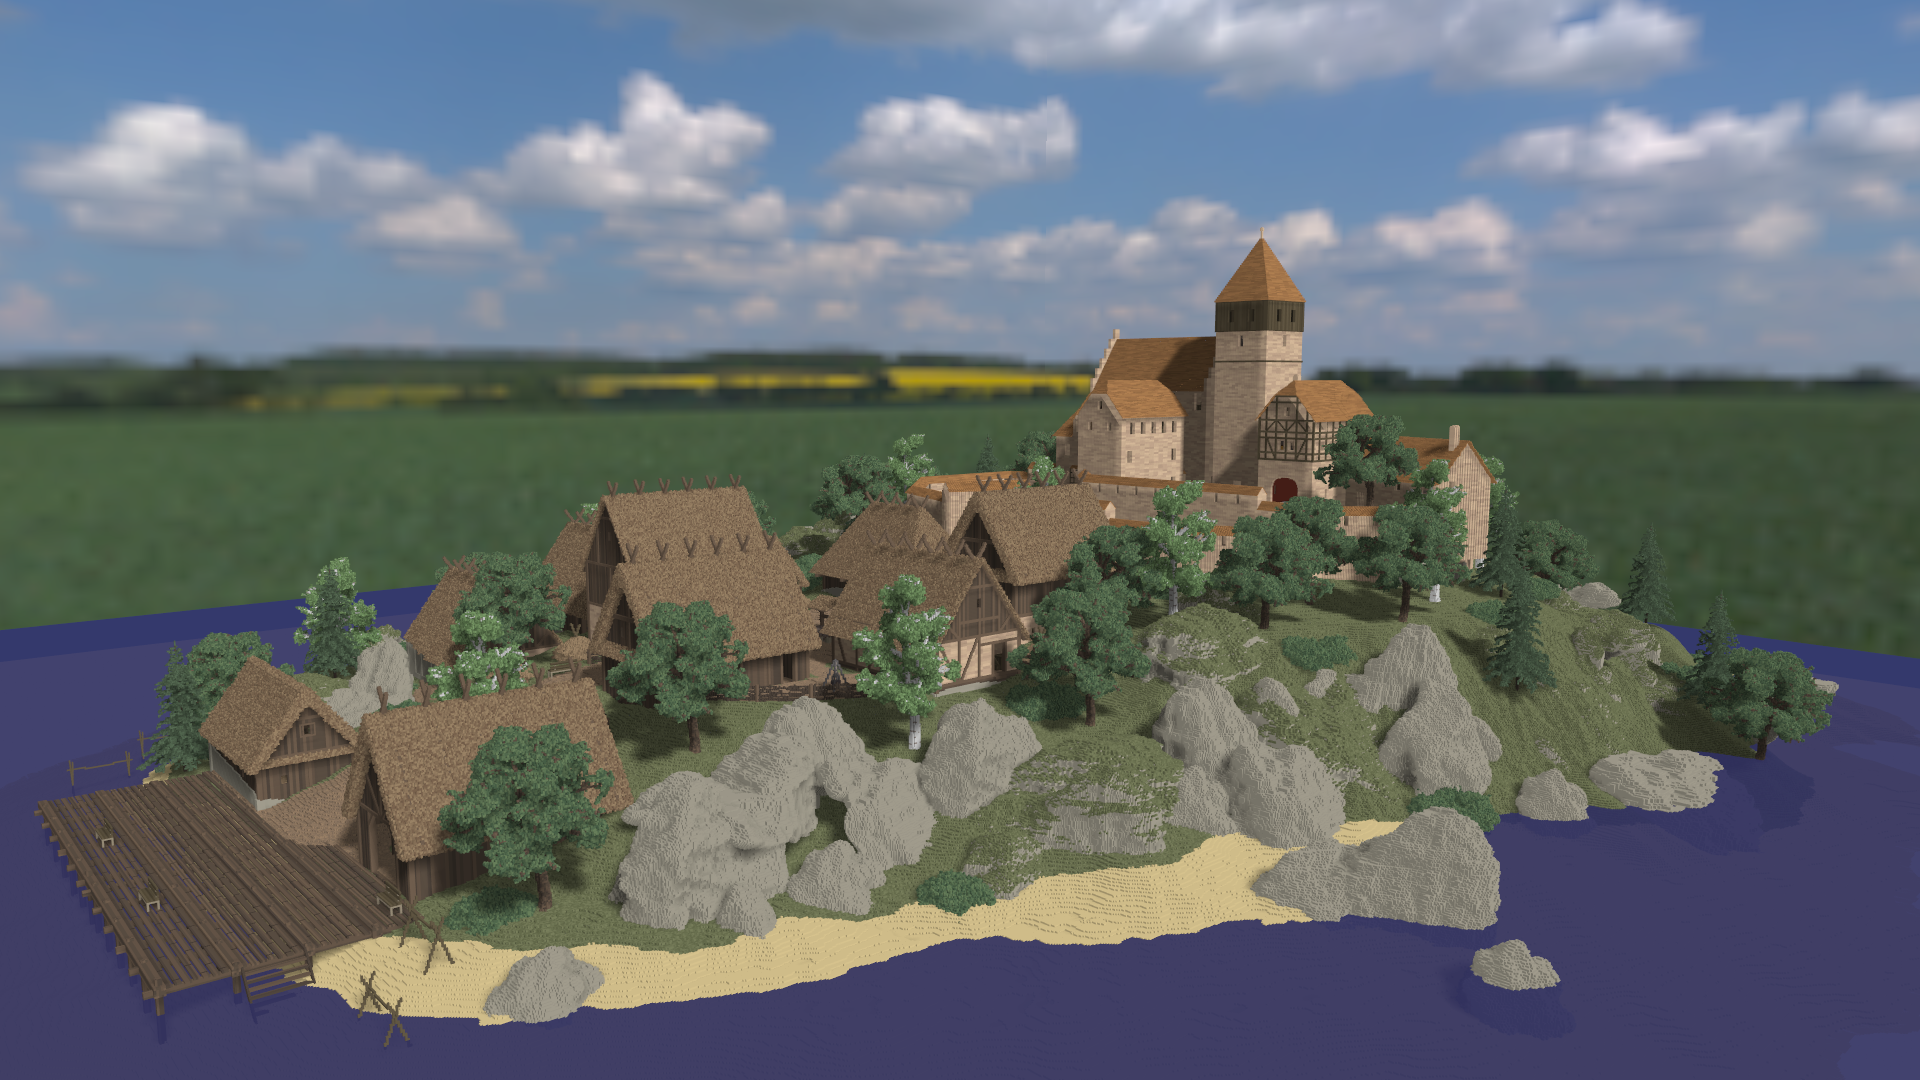
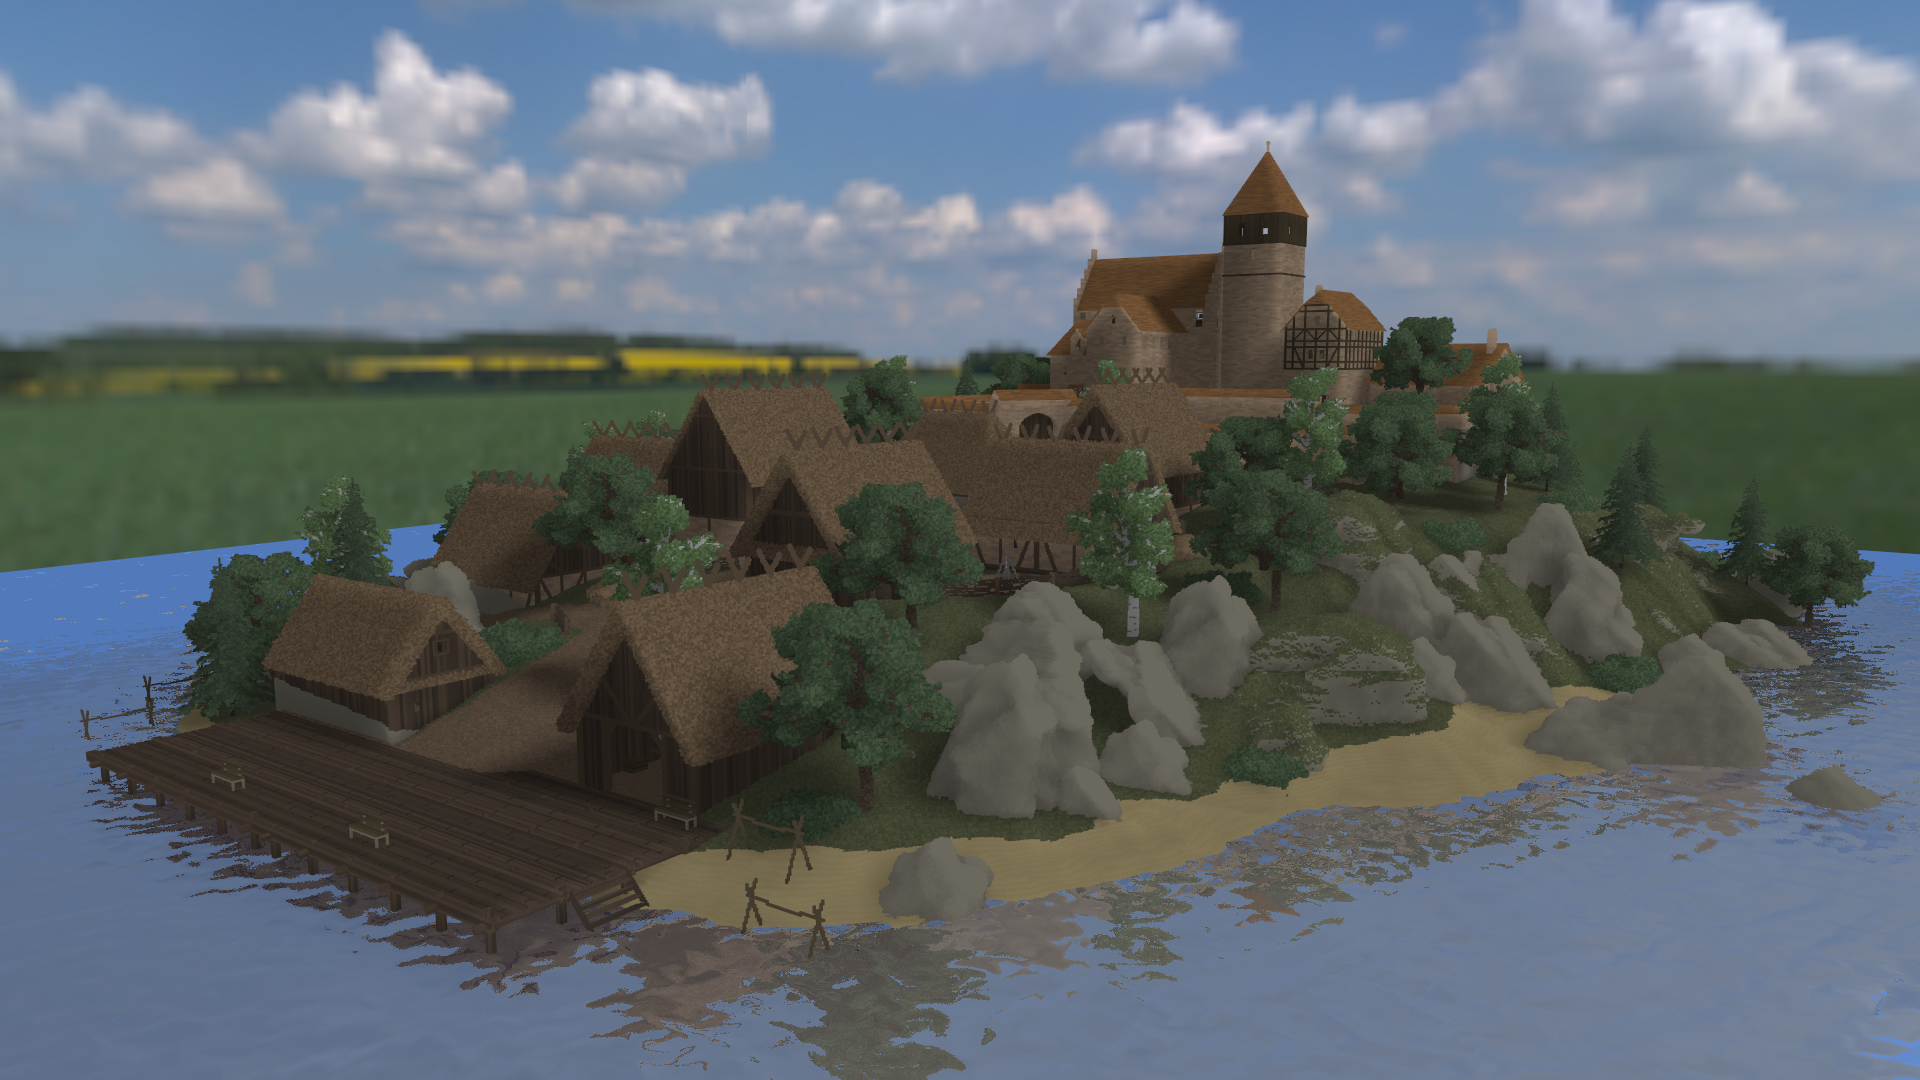
Update screenshots

diff --git a/src/shadowmap.cpp b/src/shadowmap.cpp
@@ -37,10 +37,10 @@ void ShadowMap::UnbindShadowMap(Camera& camera) {
 
 void ShadowMap::PushShadows(Shader& shader, mat4 lightProjection) {
 	shader.Use();
-	glUniformMatrix4fv(glGetUniformLocation(shader.id, "lightProjection"), 1, GL_FALSE, value_ptr(lightProjection));
 	glActiveTexture(GL_TEXTURE1);
 	glBindTexture(GL_TEXTURE_2D, shadowMap);
 	glUniform1i(glGetUniformLocation(shader.id, "shadowMap"), 1);
+	glUniformMatrix4fv(glGetUniformLocation(shader.id, "lightProjection"), 1, GL_FALSE, value_ptr(lightProjection));
 }
 
 ShadowMap::~ShadowMap() {

diff --git a/main.cpp b/main.cpp
@@ -24,7 +24,7 @@ int main(int argc, char* argv[]) {
 #else
 	Shader voxel_shader("shaders/voxel_vert.glsl", "shaders/voxel_frag.glsl");
 #endif
-	Shader shader_2d("shaders/2d_vert.glsl", "shaders/2d_tex_frag.glsl");
+	//Shader shader_2d("shaders/2d_vert.glsl", "shaders/2d_tex_frag.glsl");
 	//Shader mesh_shader("shaders/mesh_vert.glsl", "shaders/mesh_frag.glsl");
 	Shader rope_shader("shaders/rope_vert.glsl", "shaders/rope_frag.glsl");
 	Shader water_shader("shaders/water_vert.glsl", "shaders/water_frag.glsl");

diff --git a/src/xml_loader.cpp b/src/xml_loader.cpp
@@ -138,7 +138,7 @@ void Scene::RecursiveLoad(XMLElement* element, vec3 parent_pos, quat parent_rot)
 Scene::Scene(string path) {
 	XMLDocument xml_file;
 	if (xml_file.LoadFile(path.c_str()) != XML_SUCCESS) {
-		printf("[WARNING] File %s not found.\n", path.c_str());
+		printf("[Warning] XML file %s not found or corrupted.\n", path.c_str());
 		return;
 	}
 	parent_folder = path.substr(0, path.find_last_of("/\\") + 1);

diff --git a/src/water_render.h b/src/water_render.h
@@ -31,8 +31,8 @@ private:
 	GLuint dudv_texture;
 	GLuint normal_texture;
 
-	const int REFLECTION_WIDTH = 320;
-	const int REFLECTION_HEIGHT = 180;
+	const int REFLECTION_WIDTH = 640;
+	const int REFLECTION_HEIGHT = 360;
 
 	const int REFRACTION_WIDTH = 1280;
 	const int REFRACTION_HEIGHT = 720;

diff --git a/src/utils.h b/src/utils.h
@@ -8,7 +8,7 @@
 #include "camera.h"
 
 const float FAR_PLANE = 500;
-const unsigned int WINDOW_WIDTH = 1024;
+const unsigned int WINDOW_WIDTH = 1280;
 const unsigned int WINDOW_HEIGHT = 720;
 
 class UI_Rectangle {

diff --git a/README.md b/README.md
@@ -40,4 +40,6 @@ F10 save screenshot
 F11 toggle fullscreen
 
 ![img0](https://raw.githubusercontent.com/TTFH/Voxel-Render/main/screenshots/img0.png)
+![img1](https://raw.githubusercontent.com/TTFH/Voxel-Render/main/screenshots/img1.png)
+![img2](https://raw.githubusercontent.com/TTFH/Voxel-Render/main/screenshots/img2.png)
 ![img3](https://raw.githubusercontent.com/TTFH/Voxel-Render/main/screenshots/img3.png)
